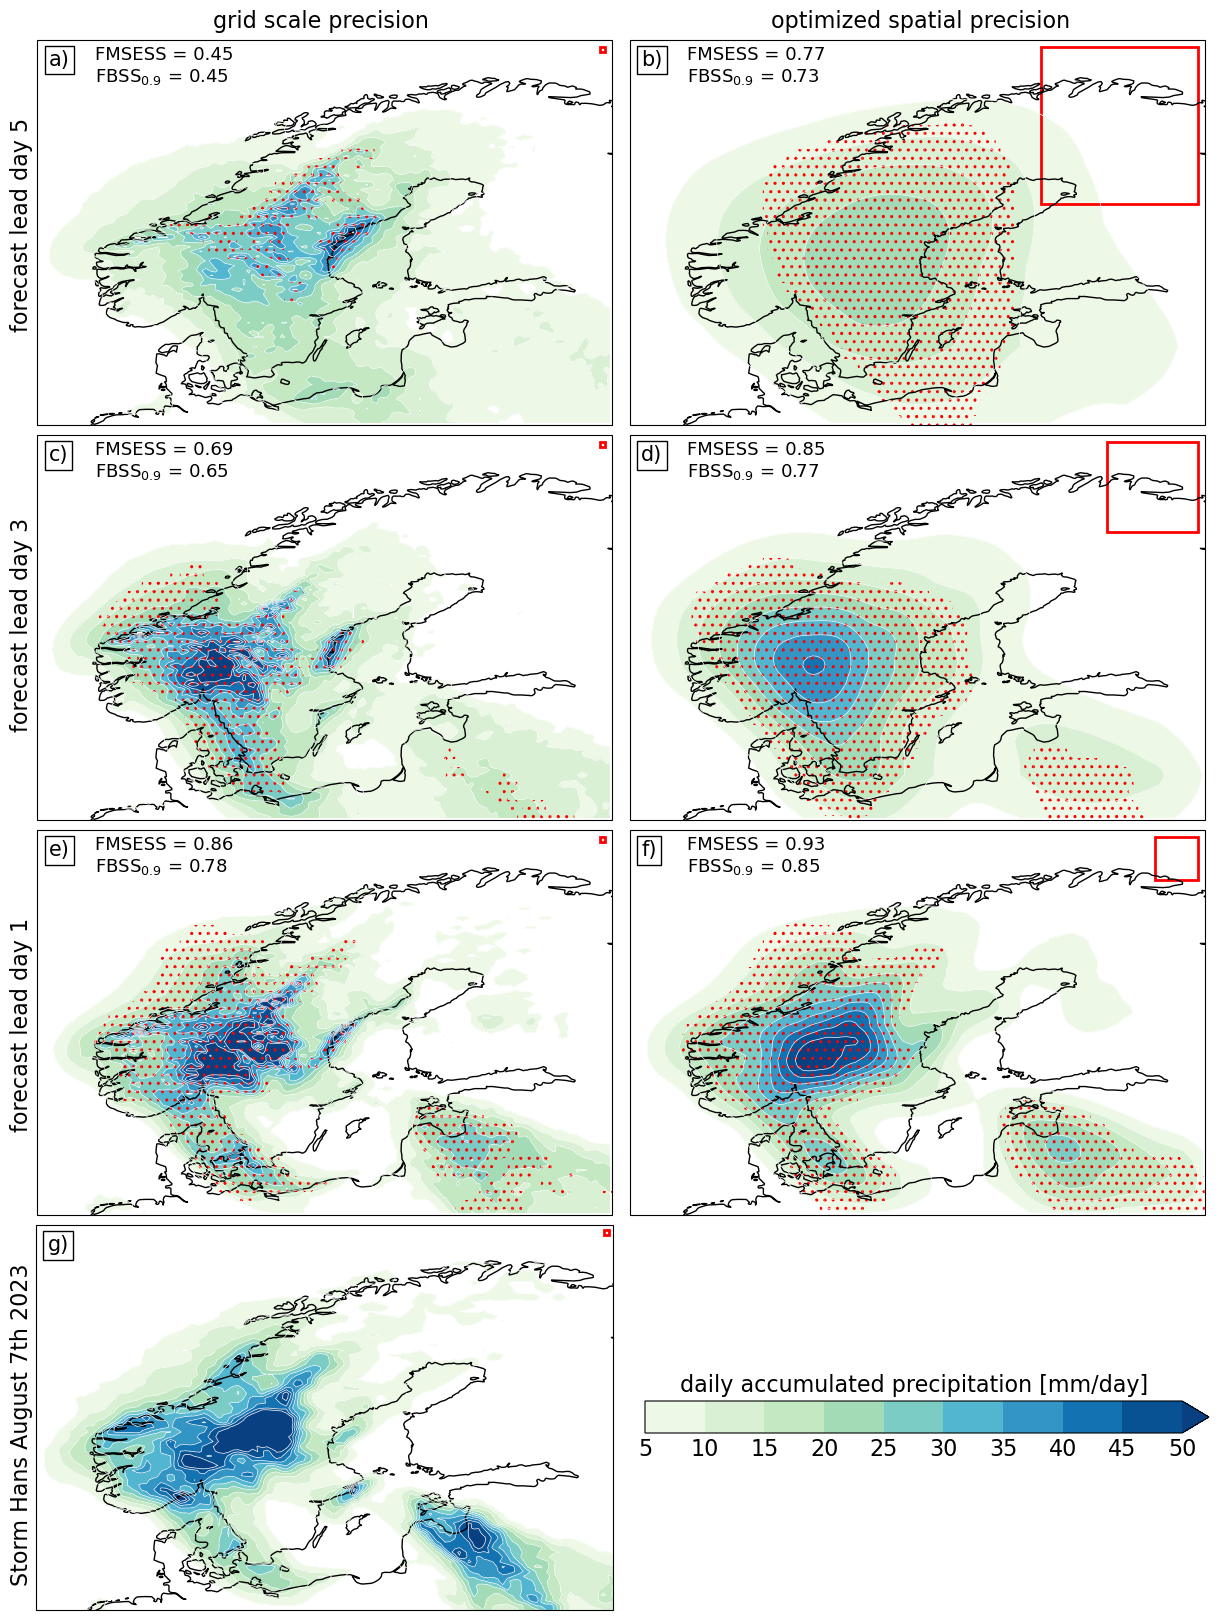
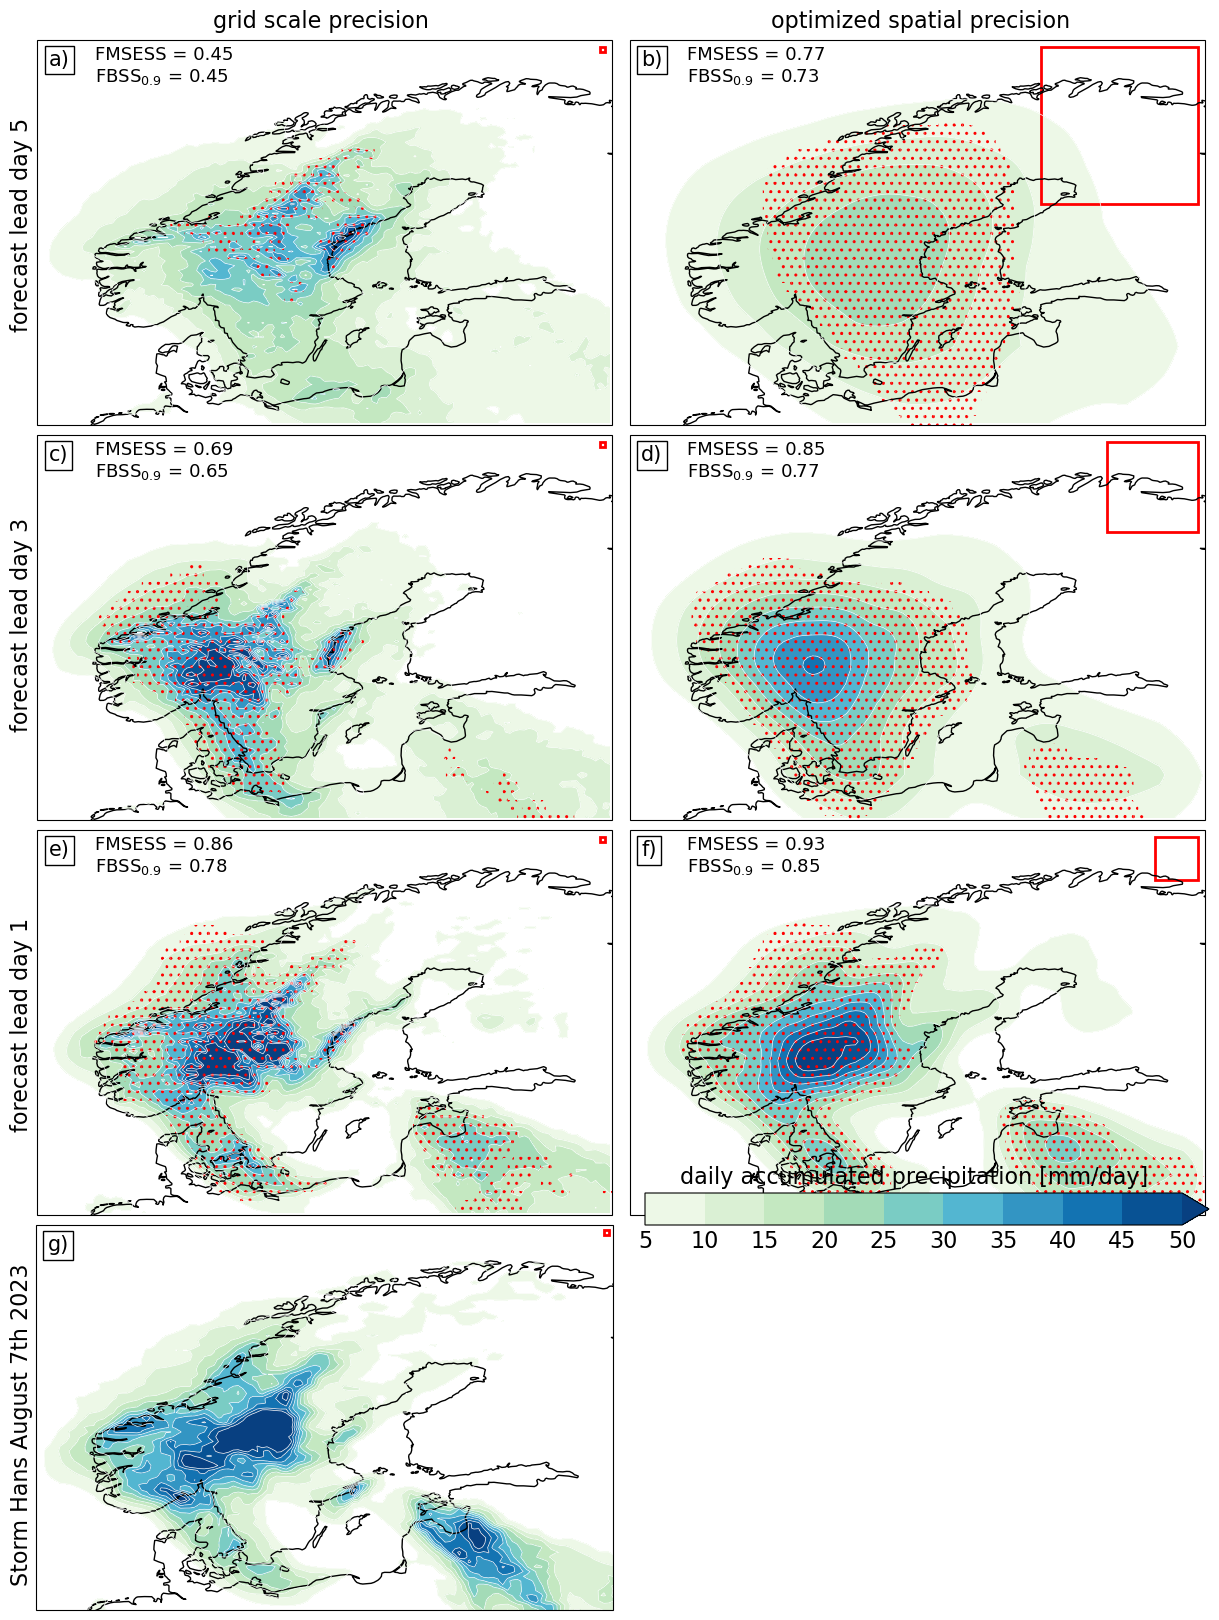
update

Changed region(s): [[0.5611, 0.7099, 0.9975, 0.7716], [0.5611, 0.8333, 0.9975, 0.8951]]

diff --git a/code/verify/calc-score-s2s-forecast.py b/code/verify/calc-score-s2s-forecast.py
@@ -26,16 +26,16 @@ from forsikring  import misc,s2s,verify,config
 
 # INPUT -----------------------------------------------
 score_flag               = 'fbss'
-time_flag                = 'weekly'                 # daily or weekly
-variable                 = 't2m24'                   # tp24,rn24,mx24rn6,mx24tp6,mx24tpr
-domain                   = 'europe'                 # europe or norway only?
+time_flag                = 'daily'                 # daily or weekly
+variable                 = 'tp24'                   # tp24,rn24,mx24rn6,mx24tp6,mx24tpr
+domain                   = 'scandinavia'                 # europe or norway only?
 first_forecast_date      = '20200102'               # first initialization date of forecast (either a monday or thursday)
-number_forecasts         = 209                      # number of forecasts 
+number_forecasts         = 313                      # number of forecasts 
 season                   = 'annual'                 # pick forecasts in specific season (djf,mam,jja,son,annual)
-grids                    = ['0.25x0.25','0.5x0.5']
+grids                    = ['0.25x0.25']
 box_sizes                = np.arange(1,61,2)        # smoothing box size in grid points per side. Must be odd!
 number_bootstrap         = 10000                    # number of times to shuffle initialization dates for error bars
-pval                     = 0.1
+pval                     = 0.9
 dt                       = 0.05                     # interpolation for lead time gained & max skill calculation
 write2file               = True
 # -----------------------------------------------------
@@ -45,6 +45,7 @@ misc.tic()
 # define stuff
 forecast_dates = s2s.get_forecast_dates(first_forecast_date,number_forecasts,season).strftime('%Y-%m-%d')
 print(forecast_dates)
+
 
 if score_flag == 'fmsess':
     path_in_forecast        = config.dirs['s2s_forecast_' + time_flag + '_anomaly'] + '/' + domain + '/' + variable + '/'

diff --git a/code/student/calc-daily-from-6hourly-s2s.py b/code/student/calc-daily-from-6hourly-s2s.py
@@ -16,8 +16,8 @@ from datetime import datetime, timedelta
 # INPUT ----------------------------------------------- 
 variables           = ['tp24']                # tp24, rn24, mx24tp6, mx24rn6, mx24tpr
 product             = 'forecast'              # hindcast or forecast ?
-first_forecast_date = '20120322' # first initialization date of forecast (either a monday or thursday)
-number_forecasts    = 186        # number of forecast initializations  
+first_forecast_date = '20230102' # first initialization date of forecast (either a monday or thursday)
+number_forecasts    = 104        # number of forecast initializations  
 season              = 'annual'
 grid                = '0.25x0.25'             # '0.25x0.25' or '0.5x0.5'
 domain              = 'southern_norway'
@@ -43,10 +43,10 @@ for variable in variables:
             if variable == 'tp24': # daily accumulated precip (m)
 
                 # files downloaded into different paths if before our after 2020
-                if date >= datetime(2020,1,2):
-                    path_in = config.dirs['s2s_' + product + '_6hourly'] + 'tp6/'
-                else:
-                    path_in = config.dirs['s2s_' + product + '_6hourly_student'] + 'tp6/'
+                #if date >= datetime(2020,1,2):
+                #    path_in = config.dirs['s2s_' + product + '_6hourly'] + 'tp6/'
+                #else:
+                path_in = config.dirs['s2s_' + product + '_6hourly_student'] + 'tp6/'
 
                 path_out                         = config.dirs['s2s_' + product + '_daily_student'] + variable + '/'
                 filename_in                      = 'tp6_' + basename + '.nc'

diff --git a/code/download/download-s2s-ecmwf-6hourly-forecast.py b/code/download/download-s2s-ecmwf-6hourly-forecast.py
@@ -22,9 +22,9 @@ from forsikring                  import config,misc,s2s
 
 # input -----------------------------------
 product             = 'forecast' # forecast/vr_forecast
-first_forecast_date = '20230803' # first initialization date of forecast (either a monday or thursday)
-number_forecast     = 6        # number of forecast initializations   
-grid                = '0.25/0.25' # degree lat/lon resolution
+first_forecast_date = '20231228' # first initialization date of forecast (either a monday or thursday)
+number_forecast     = 50        # number of forecast initializations   
+grid                = '0.5/0.5' # degree lat/lon resolution
 area                = '73.5/-27/33/45'# ecmwf european lat-lon bounds [73.5/-27/33/45]
 var                 = 'tp'
 comp_lev            = 5 # file compression level
@@ -92,6 +92,7 @@ forecast_dates = s2s.get_forecast_dates(first_forecast_date,number_forecast,'ann
 #forecast_dates = pd.date_range(first_forecast_date, periods=number_forecast, freq="D")
 print(forecast_dates)
 
+
 # populate dictionary some more and download eachforcast one-by-one
 if write2file:
     for date in forecast_dates:
@@ -125,5 +126,6 @@ if write2file:
             misc.compress_file(comp_lev,4,filename_nc,path)
     
             misc.toc()
+
 
 

diff --git a/forsikring/verify.py b/forsikring/verify.py
@@ -29,8 +29,14 @@ def boxcar_smoother_xy_optimized(box_sizes, da, output_type):
         raise ValueError("The last two dimensions of 'da' must be 'latitude' and 'longitude'")
 
     # Initialize output array smooth_values = np.full((len(box_sizes),) + da.shape, np.nan, dtype='float32')
+    #coords        = {'box_size': box_sizes, **da.coords}
+    #dims          = ['box_size'] + list(da.dims)
+
+    # initialize output array    
+    temp          = np.zeros((box_sizes.size,) + da.shape)
     coords        = {'box_size': box_sizes, **da.coords}
     dims          = ['box_size'] + list(da.dims)
+    smooth_values = xr.DataArray(temp, coords=coords, dims=dims)
     
     # Apply the uniform filter for each box size
     for i, size in enumerate(box_sizes):
@@ -40,9 +46,10 @@ def boxcar_smoother_xy_optimized(box_sizes, da, output_type):
 
     # Create the DataArray if desired. Else, remains numpy array
     if output_type == 'xarray':
-        return xr.DataArray(smooth_values, coords=coords, dims=dims)
-    elif output_type == 'numpy':
+        #return xr.DataArray(smooth_values, coords=coords, dims=dims)
         return smooth_values
+    elif output_type == 'numpy':
+        return smooth_values.values
     
 
 def boxcar_smoother_xy(box_sizes,da):

diff --git a/code/preprocess/era5/calc-binary-forecast-format.py b/code/preprocess/era5/calc-binary-forecast-format.py
@@ -37,14 +37,14 @@ def initialize_quantile_array(variable,box_sizes,time_flag,dim):
 
 
 # input ----------------------------------------------
-time_flag           = 'weekly'                   # daily or weekly
-variable            = 't2m24'                  # tp24, rn24, mx24tp6, mx24rn6, mx24tpr
+time_flag           = 'daily'                   # daily or weekly
+variable            = 'tp24'                  # tp24, rn24, mx24tp6, mx24rn6, mx24tpr
 first_forecast_date = '20200102'               # first initialization date of forecast (either a monday or thursday)
-number_forecasts    = 105                        # number of forecast initializations
+number_forecasts    = 313                        # number of forecast initializations
 season              = 'annual'
-grid                = '0.5x0.5'              # '0.25x0.25' or '0.5x0.5'
+grid                = '0.25x0.25'              # '0.25x0.25' or '0.5x0.5'
 pval                = 0.9                      # percentile values
-domain              = 'europe'
+domain              = 'scandinavia'
 box_sizes           = np.arange(1,61,2)        # smoothing box size in grid points per side. Must be odd!
 write2file          = True
 # ----------------------------------------------------

diff --git a/code/student/calc-6hourly-accumulated-variables-s2s.py b/code/student/calc-6hourly-accumulated-variables-s2s.py
@@ -20,8 +20,8 @@ from matplotlib  import pyplot as plt
 variables           = ['tp']                  
 dtypes              = ['cf','pf']             # control & perturbed forecasts/hindcasts
 product             = 'forecast'              # hindcast or forecast
-first_forecast_date = '20120322' # first initialization date of forecast (either a monday or thursday) 
-number_forecasts    = 186        # number of forecast initializations 
+first_forecast_date = '20220526' # first initialization date of forecast (either a monday or thursday) 
+number_forecasts    = 167        # number of forecast initializations 
 season              = 'annual'
 grid                = '0.25x0.25'             # '0.25x0.25' or '0.5x0.5'
 comp_lev            = 5                       # level of compression with nccopy (1-10)
@@ -31,7 +31,6 @@ write2file          = True
 # get all dates for monday and thursday forecast initializations
 forecast_dates = s2s.get_forecast_dates(first_forecast_date,number_forecasts,season).strftime('%Y-%m-%d')
 print(forecast_dates)
-
 
 for variable in variables:
     for date in forecast_dates:

diff --git a/code/student/extract-city-forecast-s2s.py b/code/student/extract-city-forecast-s2s.py
@@ -20,7 +20,7 @@ def preprocess(ds):
 product               = 'forecast'          # forecast or hindcast
 variable              = 'tp24'              # tp24,rn24,mx24rn6,mx24tp6,mx24tpr
 first_forecast_date   = '20120102'          # first initialization date of forecast (either a monday or thursday) 
-number_forecasts      = 1148                 # number of forecasts
+number_forecasts      = 1252                 # number of forecasts
 season                = 'annual'
 grid                  = '0.25x0.25'          # '0.25x0.25' & '0.5x0.5'
 domain                = 'oslo'
@@ -32,6 +32,7 @@ forecast_dates = s2s.get_forecast_dates(first_forecast_date,number_forecasts,sea
 
 forecast_dates = forecast_dates.delete(22) # missing forecast on 2012-03-19
 forecast_dates = forecast_dates.delete(357) # missing forecast on 2015-06-08
+forecast_dates = forecast_dates.delete(1082) # missing forecast on 2022-05-23
 
 # define stuff  
 path_in           = config.dirs['s2s_' + product + '_daily_student'] + variable + '/'

diff --git a/code/student/test-plot-reliability-curve-for-unbalanced-dataset.py b/code/student/test-plot-reliability-curve-for-unbalanced-dataset.py
@@ -1,0 +1,24 @@
+import numpy as np
+import matplotlib.pyplot as plt
+from sklearn.calibration import calibration_curve
+
+# Predicted probabilities and observed outcomes
+predicted_probs = np.array([...])  # Replace with your predicted probabilities
+observed_outcomes = np.array([...])  # Replace with binary outcomes (1 if >2 claims, else 0)
+
+# Compute calibration curve
+fraction_of_positives, mean_predicted_prob = calibration_curve(
+    observed_outcomes, predicted_probs, n_bins=10, strategy='uniform'
+)
+
+# Plot reliability diagram
+plt.figure(figsize=(8, 8))
+plt.plot(mean_predicted_prob, fraction_of_positives, marker='o', label='Model')
+plt.plot([0, 1], [0, 1], 'k--', label='Perfect reliability')
+plt.axhline(y=0.02, color='red', linestyle='--', label='Climatological frequency (2%)')
+plt.xlabel('Mean predicted probability')
+plt.ylabel('Observed frequency')
+plt.title('Reliability Diagram for >2 Claims Prediction')
+plt.legend()
+plt.grid()
+plt.show()

diff --git a/code/student/check-out-new-try-dataset.py b/code/student/check-out-new-try-dataset.py
@@ -1,0 +1,29 @@
+"""                                                                                                                                                                                       
+explore Trygs new dataset
+"""
+
+import numpy    as np
+import pandas   as pd
+import xarray   as xr
+from investor   import config, misc
+from matplotlib import pyplot as plt
+
+# input ---------------------------
+write2file = False
+# --------------------------------- 
+
+# Load the Excel file into a pandas DataFrame
+path_in      = config.dirs['raw_tryg']
+path_out     = config.dirs['processed_tryg']
+filename_in  = path_in + '24-12-05-climate_futures_20241004_exposure_and_claims_nhh.csv'
+#filename_out = path_out + 'tryg_' + variable + '_claims_monthly.nc'
+df           = pd.read_csv(filename_in)
+
+print(df)
+
+column_titles = df.columns
+print(column_titles)
+
+for date in df['MUNICIPALITY']:
+    if date == 3322:
+        print(date)

diff --git a/code/download/download-s2s-ecmwf-6hourly-hindcast.py b/code/download/download-s2s-ecmwf-6hourly-hindcast.py
@@ -26,12 +26,12 @@ from forsikring                  import config,misc,s2s
 
 # input -----------------------------------
 product             = 'hindcast' # hindcast/vr_hindcast
-first_forecast_date = '20201228' # first initialization date of forecast (either a monday or thursday)
-number_forecast     = 2          # number of forecast initializations      
+first_forecast_date = '20230102' # first initialization date of forecast (either a monday or thursday)
+number_forecast     = 104          # number of forecast initializations      
 nhdates             = 20 # number of hindcast years  
 grid                = '0.25/0.25' # degree lat/lon resolution
 area                = '73.5/-27/33/45'# ecmwf european lat-lon bounds [73.5/-27/33/45]
-var                 = 't2m'
+var                 = 'tp'
 comp_lev            = 5 # file compression level
 write2file          = True
 # -----------------------------------------

diff --git a/code/plot/plot-fig-05.py b/code/plot/plot-fig-05.py
@@ -116,7 +116,7 @@ p = setup_subplot_xy(6, ax[5], da6['EFI'], da6[variable], clevs, cmap, fontsize,
 setup_subplot_xy(7, ax[6], da5['EFI'], da7[variable], clevs, cmap, fontsize, 'g)', stats5)
 
 ax[7].set_frame_on(False)
-cbar_ax = fig.add_axes([0.52, 0.12, 0.47, 0.02])
+cbar_ax = fig.add_axes([0.52, 0.25, 0.47, 0.02])
 cb = fig.colorbar(p, cax=cbar_ax, orientation='horizontal',ticks=clevs, pad=0.025)
 cb.ax.tick_params(labelsize=fontsize+5, size=0)
 cb.ax.set_title('daily accumulated precipitation [mm/day]', fontsize=fontsize+5,y=1.01)

diff --git a/code/plot/plot-fig-01.py b/code/plot/plot-fig-01.py
@@ -55,7 +55,7 @@ def setup_subplot(flag, ax, ds, title_text, clevs_score, clevs_ltg, cmap_score, 
 
 
 # INPUT -----------------------
-write2file = True
+write2file = False
 # -----------------------------
 
 # define stuff         
